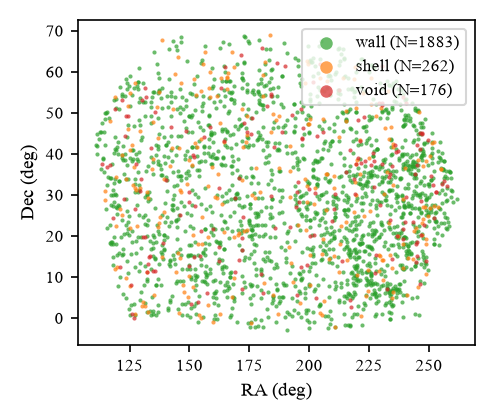
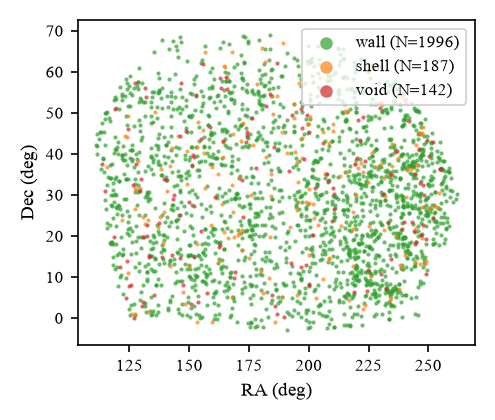
v0.7b sync code+data with paper: wall fix, Tripp, plots, manifest

diff --git a/src/dr2_hr.py b/src/dr2_hr.py
@@ -29,8 +29,9 @@ m = dr2.merge(hosts[["mass", "mass_err"]], left_on="ztfname", right_on="ztfname"
 mine = m.merge(sn[["ztfid", "r_Rv"]].rename(columns={"ztfid": "void_id"}),
                left_on="ztfname", right_on="void_id", how="inner")
 print(f"overlap with our Ia sample: {len(mine)}")
-mine["env"] = np.where(mine.r_Rv < 0.8, "void", "wall")
-print(mine.env.value_counts().to_dict())
+mine["env"] = np.where(mine.r_Rv < 0.8, "void", np.where((mine.r_Rv > 1.0) & np.isfinite(mine.r_Rv), "wall", "other"))
+mine = mine[mine.env.isin(["void", "wall"])].copy()
+print(mine.env.value_counts().to_dict(), "(shell/outside excluded from HR sample)")
 
 # Cosmology cuts
 q = mine[(mine.sn_type == "snia-cosmo") & (mine.sub_type == "norm")].copy()
